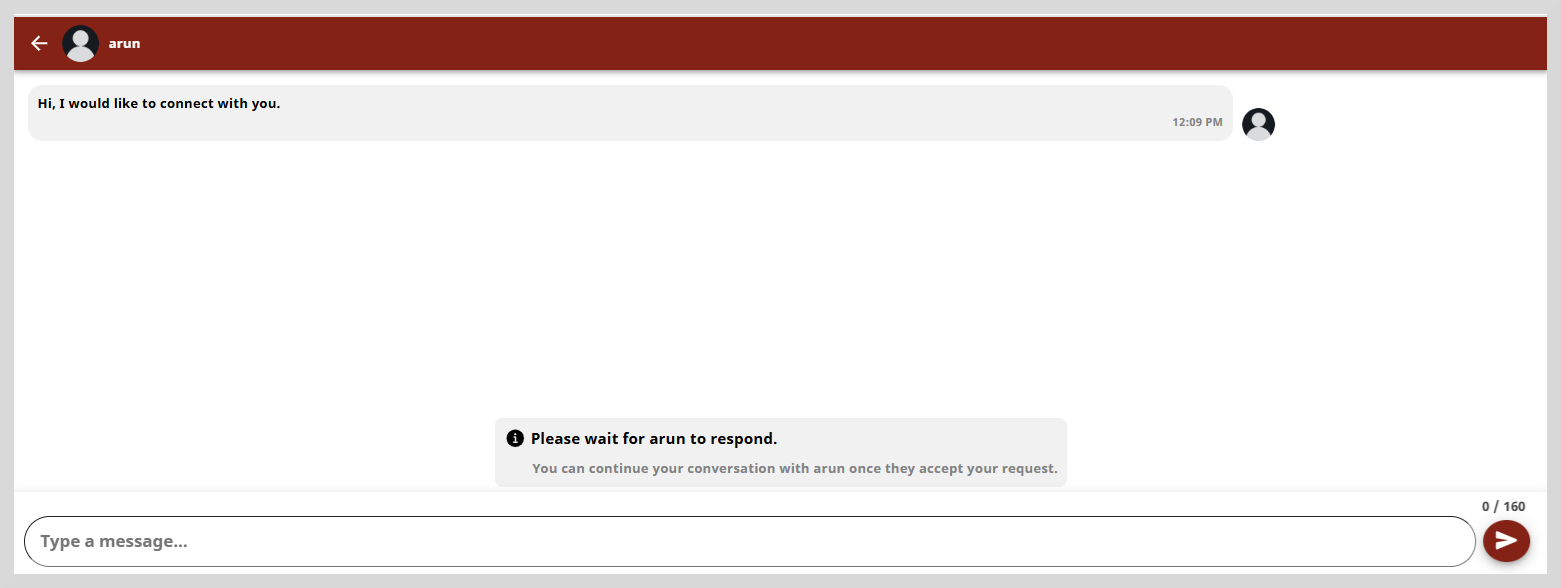
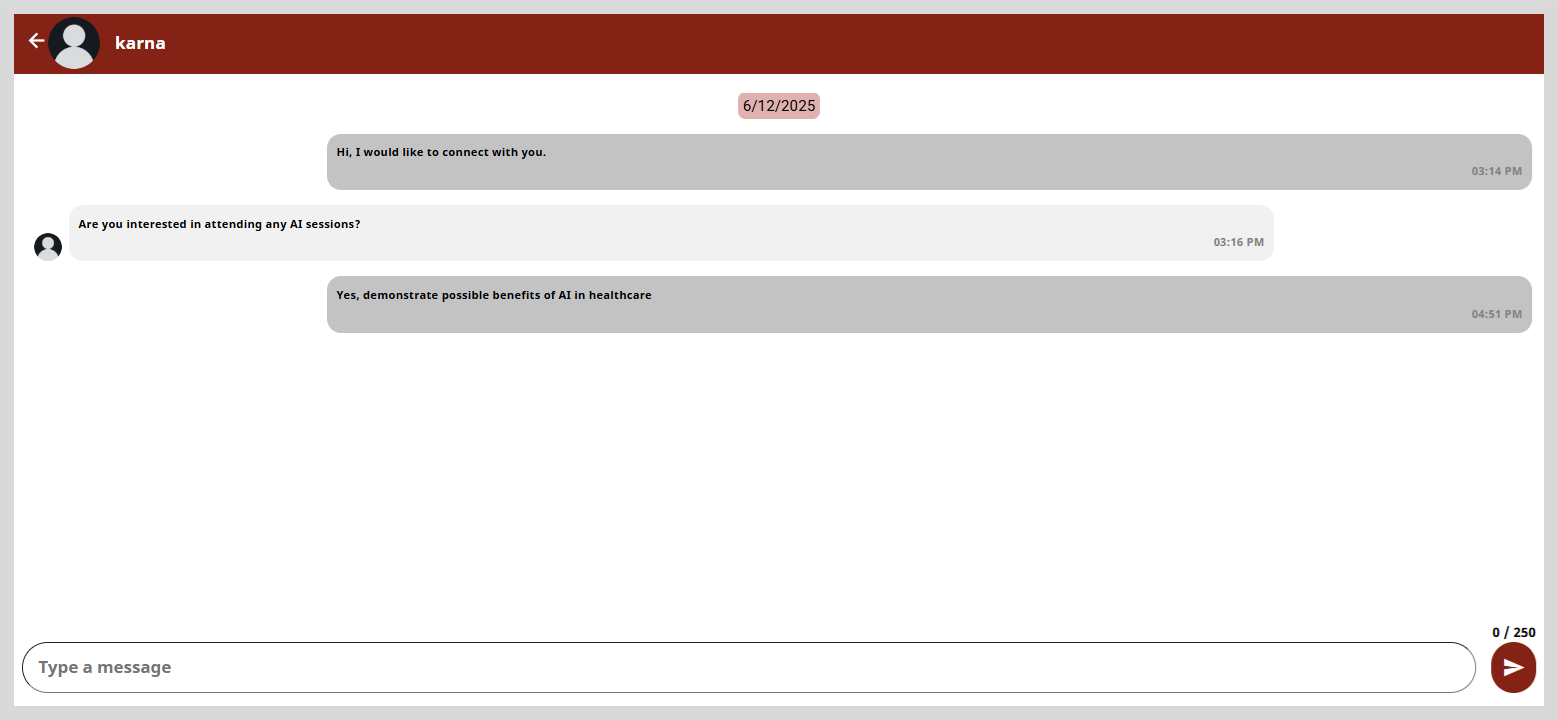
Updated a few docs and images
Updated mentee request, connections, and messages docs and also mentor-directory

diff --git a/src/docusaurus/sidebars.js b/src/docusaurus/sidebars.js
@@ -270,7 +270,7 @@ const sidebars = {
             {
               type: 'doc',
               id: 'mentee-request', // document ID
-              label: 'Managing Message Requests', // sidebar label
+              label: 'Viewing Sent Requests', // sidebar label
             },
              {
               type: 'doc',
